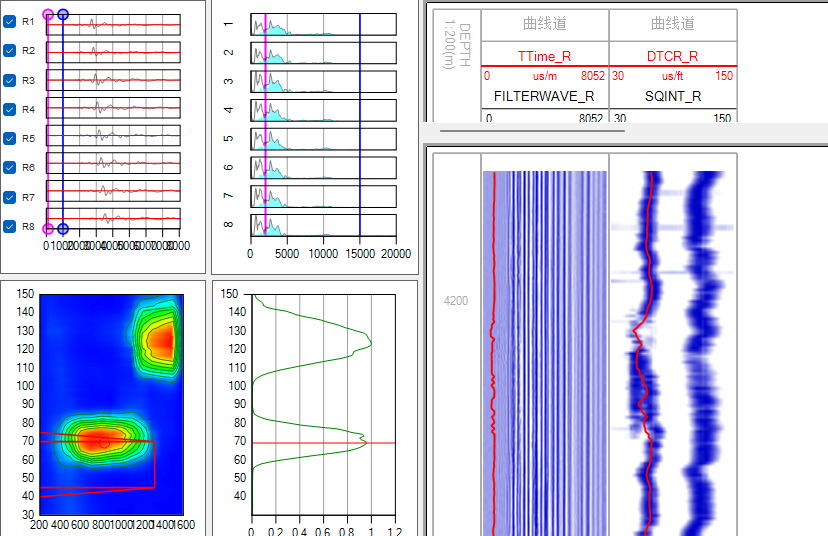
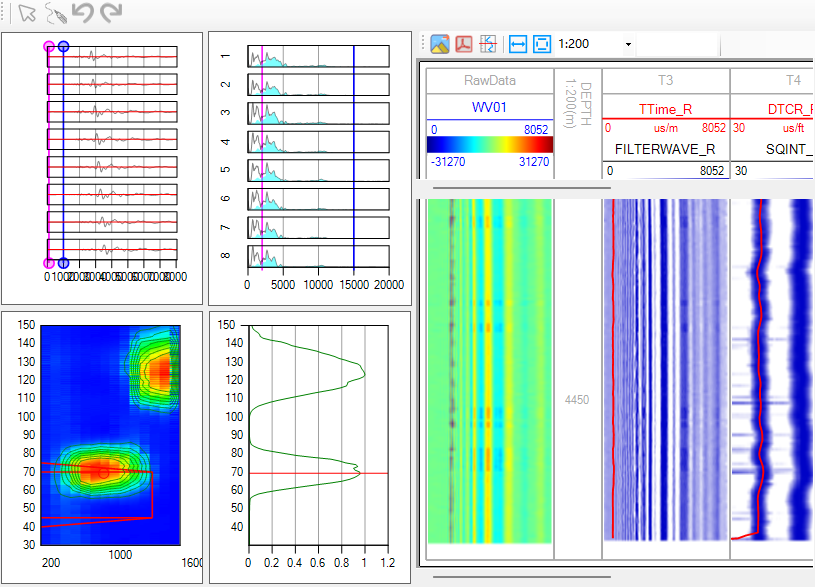
调整一版AAC通过

diff --git a/testcases/test_AAC.py b/testcases/test_AAC.py
@@ -1,11 +1,13 @@
 import time
 
+import pytest
 from pywinauto.findwindows import find_window
 from pywinauto.mouse import click
 
 from config.config import WAIT_SHORT, AAC_PROCESSTIME
 
-
+@pytest.mark.sa
+@pytest.mark.order(1)
 def test_initdata(app_operate):
     app_operate.main_window.set_focus()
     # 点击Open Data，还有待优化，目前是坐标定位
@@ -28,7 +30,8 @@ def test_initdata(app_operate):
     # 断言加载成功
     app_operate.assertor.assert_tree_node_exists("Demo", "data_test.xtf")
 
-
+@pytest.mark.sa
+@pytest.mark.order(2)
 def test_SA(app_operate):
     # 1. 确保主窗口激活（可选，防止程序在后台）
     app_operate.main_window.set_focus()
@@ -49,7 +52,8 @@ def test_SA(app_operate):
     app_operate.input_text_to_edit_sendkeys(
         control_type="Edit",
         name="Channel Row 0, Not sorted.",
-        input_text="ds:F1;ch:WV01"
+        input_text="ds:F1;ch:WV01",
+        is_needenter=1
     )
     # 点击运行
     app_operate.click_control(
@@ -65,20 +69,26 @@ def test_SA(app_operate):
     time.sleep(AAC_PROCESSTIME)
 
     # 断言图像比对
-    app_operate.assert_image_match(img_name="sa.png",region=(870,245,828,536),threshold=0.85)
+    app_operate.assert_image_match(img_name="sa.png",region=(885,215,815,587),threshold=0.85)
 
     # 切换到Parameter页签
     app_operate.click_control(control_type="TabItem",name="Parameters")
 
     # 输入数据
     # 频率数据
-    app_operate.input_text_to_edit(control_type="Edit",name="Value Row 16",input_text="1000")
-    app_operate.input_text_to_edit(control_type="Edit",name="Value Row 17",input_text="8000")
+    #app_operate.input_text_to_edit(control_type="Edit",name="Value Row 16",input_text="1000")
+    app_operate.input_text_to_edit_sendkeys(control_type="Edit",name="Value Row 16",input_text="1000")
+    app_operate.input_text_to_edit_sendkeys(control_type="Edit",name="Value Row 17",input_text="8000")
     # 时差相关数据
-    app_operate.input_text_to_edit(control_type="Edit",name="Value Row 22",input_text="35.86")
-    app_operate.input_text_to_edit(control_type="Edit",name="Value Row 23",input_text="55.1776")
-    app_operate.input_text_to_edit(control_type="Edit",name="Value Row 24",input_text="97.7876")
-    app_operate.input_text_to_edit(control_type="Edit",name="Value Row 25",input_text="120.0376")
+    parent_scrollbar = app_operate.get_control(control_type="ScrollBar",name="Vertical Scroll Bar")
+    for i in range(3):
+        app_operate.click_control(control_type="Button",name="下一行",parent=parent_scrollbar)
+    app_operate.input_text_to_edit_sendkeys(control_type="Edit",name="Value Row 22",input_text="35.86")
+    app_operate.input_text_to_edit_sendkeys(control_type="Edit",name="Value Row 23",input_text="55.1776")
+    app_operate.input_text_to_edit_sendkeys(control_type="Edit",name="Value Row 24",input_text="97.7876")
+    app_operate.input_text_to_edit_sendkeys(control_type="Edit",name="Value Row 25",input_text="120.0376")
+
+
 
 
     # 再次点击运行
@@ -91,4 +101,138 @@ def test_SA(app_operate):
     time.sleep(AAC_PROCESSTIME)
 
     # 断言图像比对
-    app_operate.assert_image_match(img_name="sa2.png",region=(610,216,936,567),threshold=0.85)
+    app_operate.assert_image_match(img_name="sa2.png",region=(885,215,815,587),threshold=0.85)
+
+def test_SATA(app_operate):
+    # 1. 确保主窗口激活（可选，防止程序在后台）
+    app_operate.main_window.set_focus()
+    time.sleep(WAIT_SHORT)
+    # 点击Acoustics模块
+    app_operate.click_control(
+        control_type="TabItem",
+        name="Acoustics"
+    )
+
+    # 点击SATA模块
+    app_operate.click_control(
+        control_type="Button",
+        name="Single Arrive Time Analysis"
+    )
+    time.sleep(WAIT_SHORT)  # 点击后等待反馈
+    # 输入曲线TRWV
+    app_operate.input_text_to_edit_sendkeys(
+        control_type="Edit",
+        name="Channel Row 0, Not sorted.",
+        input_text="ds:F1;ch:WV01"
+    )
+    # 输入曲线ATOUT
+    app_operate.input_text_to_edit_sendkeys(
+        control_type="Edit",
+        name="Channel Row 1, Not sorted.",
+        input_text="ds:F3;ch:ATOUT"
+    )
+    # 输入曲线MAXFLAG
+    app_operate.input_text_to_edit_sendkeys(
+        control_type="Edit",
+        name="Channel Row 3, Not sorted.",
+        input_text="ds:F3;ch:MAXFLAG"
+    )
+    # 点击运行
+    app_operate.click_control(
+        control_type="Button",
+        name="Run"
+    )
+
+    # 断言出现进度条
+    # analysis_dialog = app_operate.app.window(title="SlownessAnalysis")
+    # assert analysis_dialog.exists()
+
+    # 等待进度条消失
+    time.sleep(AAC_PROCESSTIME)
+
+    # 断言图像比对
+    app_operate.assert_image_match(img_name="sata.png", region=(610, 216, 931, 568), threshold=0.85)
+
+    # 切换到Parameter页签
+    app_operate.click_control(control_type="TabItem", name="Parameters")
+
+    # 输入数据
+    # 频率数据
+    app_operate.input_text_to_edit(control_type="Edit", name="Value Row 7", input_text="8860")
+    app_operate.input_text_to_edit(control_type="Edit", name="Value Row 8", input_text="13480")
+
+    # 再次点击运行
+    app_operate.click_control(
+        control_type="Button",
+        name="Run"
+    )
+
+    # 等待进度条消失
+    time.sleep(AAC_PROCESSTIME)
+
+    # 断言图像比对
+    app_operate.assert_image_match(img_name="sata2.png", region=(610, 216, 931, 568), threshold=0.85)
+
+def test_AATA(app_operate):
+    # 1. 确保主窗口激活（可选，防止程序在后台）
+    app_operate.main_window.set_focus()
+    time.sleep(WAIT_SHORT)
+    # 点击Acoustics模块
+    app_operate.click_control(
+        control_type="TabItem",
+        name="Acoustics"
+    )
+
+    # 点击SATA模块
+    app_operate.click_control(
+        control_type="Button",
+        name="Array Arrive Time Analysis"
+    )
+    time.sleep(WAIT_SHORT)  # 点击后等待反馈
+    # 输入曲线
+    app_operate.input_text_to_edit_sendkeys(
+        control_type="Edit",
+        name="Channel Row 0, Not sorted.",
+        input_text="ds:F1;ch:WV01"
+    )
+
+    app_operate.input_text_to_edit_sendkeys(
+        control_type="Edit",
+        name="Channel Row 1, Not sorted.",
+        input_text="ds:F2;ch:TTime_R"
+    )
+    # 点击运行
+    app_operate.click_control(
+        control_type="Button",
+        name="Run"
+    )
+
+    # 断言出现进度条
+    # analysis_dialog = app_operate.app.window(title="SlownessAnalysis")
+    # assert analysis_dialog.exists()
+
+    # 等待进度条消失
+    time.sleep(AAC_PROCESSTIME)
+
+    # 断言图像比对
+    app_operate.assert_image_match(img_name="sata.png", region=(610, 216, 931, 568), threshold=0.85)
+
+    # 切换到Parameter页签
+    app_operate.click_control(control_type="TabItem", name="Parameters")
+
+    # 输入数据
+    # 频率数据
+    app_operate.input_text_to_edit(control_type="Edit", name="Value Row 7", input_text="8860")
+    app_operate.input_text_to_edit(control_type="Edit", name="Value Row 8", input_text="13480")
+
+    # 再次点击运行
+    app_operate.click_control(
+        control_type="Button",
+        name="Run"
+    )
+
+    # 等待进度条消失
+    time.sleep(AAC_PROCESSTIME)
+
+    # 断言图像比对
+    app_operate.assert_image_match(img_name="sata2.png", region=(610, 216, 931, 568), threshold=0.85)

diff --git a/core/app_operate.py b/core/app_operate.py
@@ -39,17 +39,17 @@ class DeepLoggingOperate:
         return self
 
     """主窗口点击"""
-    def click_control(self, control_type, name, timeout=CONTROL_TIMEOUT):
+    def click_control(self, control_type, name, timeout=CONTROL_TIMEOUT,parent=None,found_index=0 ):
         """通用控件点击方法（适配所有模块的控件点击）"""
         target_control = self.main_window.child_window(
             control_type=control_type,
-            title=name
+            title=name,
+            found_index=found_index
         )
         # 前置验证
         assert target_control.exists(timeout=timeout), f"控件[{name}]不存在"
         assert target_control.is_visible(), f"控件[{name}]不可见"
         assert target_control.is_enabled(), f"控件[{name}]不可点击"
-
         # 执行点击
         target_control.click_input()
         return self
@@ -103,7 +103,7 @@ class DeepLoggingOperate:
 
 
     """针对不适合type_keys方式录入数据的，采用send_keys方式录入"""
-    def input_text_to_edit_sendkeys(self, control_type="Edit", name="", input_text="", timeout=8):
+    def input_text_to_edit_sendkeys(self, control_type="Edit", name="", input_text="", timeout=8,is_needenter=0):
         """
         通用输入框录入方法
         :param control_type: 输入框控件类型（默认Edit，UIA后端常用）
@@ -133,8 +133,9 @@ class DeepLoggingOperate:
 
         # 5. 输入目标文本（支持特殊字符，如换行、空格等）
         send_keys(input_text, pause=0.1)
-        send_keys('{ENTER}', pause=0.2)
-        send_keys('{ENTER}', pause=0.2)
+        if is_needenter:
+            send_keys('{ENTER}', pause=0.2)
+            send_keys('{ENTER}', pause=0.2)
         time.sleep(WAIT_SHORT)
 
 
@@ -266,3 +267,39 @@ class DeepLoggingOperate:
         # 4. 断言
         assert ssim_score >= threshold, f"图片相似度不足：{ssim_score:.2f} < {threshold}"
         print(f"✅ 图片断言成功！相似度 = {ssim_score:.2f}")
+
+    def get_control(self, control_type, name=None, found_index=0, timeout=CONTROL_TIMEOUT):
+        """
+        全局搜索控件（无视层级），完全兼容 UIAWrapper
+        """
+        # 用 descendants 找所有层级控件
+        if name:
+            controls = self.main_window.descendants(control_type=control_type, title=name)
+        else:
+            controls = self.main_window.descendants(control_type=control_type)
+
+        if not controls:
+            raise RuntimeError(f"未找到控件：control_type={control_type}, name={name}")
+
+        # 处理多个同名控件
+        if len(controls) > 1:
+            print(f"⚠  找到 {len(controls)} 个匹配控件，使用索引 {found_index}")
+            if found_index >= len(controls):
+                raise IndexError(f"索引 {found_index} 超出控件数量（共 {len(controls)} 个）")
+
+        target_control = controls[found_index]
+
+        # 等待控件可见（兼容 UIAWrapper，不调用 exists/wait）
+        start_time = time.time()
+        while time.time() - start_time < timeout:
+            try:
+                # 直接尝试获取控件的可见性，不依赖 exists()
+                if target_control.is_visible():
+                    break
+            except:
+                pass
+            time.sleep(0.1)
+        else:
+            raise RuntimeError(f"控件[{name}]超时未加载完成或不可见")
+
+        return target_control

diff --git a/config/config.py b/config/config.py
@@ -1,6 +1,6 @@
 # config/config.py
 # 程序基础配置
-APP_PATH = r"D:\Projects\DeepLogging_20260326\BIN\DeepLogging.exe"
+APP_PATH = r"D:\Projects\DeepLogging_20260429\BIN\DeepLogging.exe"
 BACKEND = "uia"  # UIA后端（适配你的控件属性）
 
 # 超时配置
@@ -8,7 +8,7 @@ LAUNCH_TIMEOUT = 10  # 程序启动超时（秒）
 CONTROL_TIMEOUT = 5   # 控件加载超时（秒）
 WAIT_SHORT = 0.5      # 短等待（秒）
 WAIT_LONG = 2         # 长等待（秒）
-AAC_PROCESSTIME = 15  # 进度条时间(秒)
+AAC_PROCESSTIME = 30  # 进度条时间(秒)
 
 # 窗口匹配规则（按实际窗口标题调整）
 WINDOW_TITLE_PATTERN =r"DeepLogging"    #r"DeepLogging \[.*\.dlp\]"  r"DeepLogging AI"
